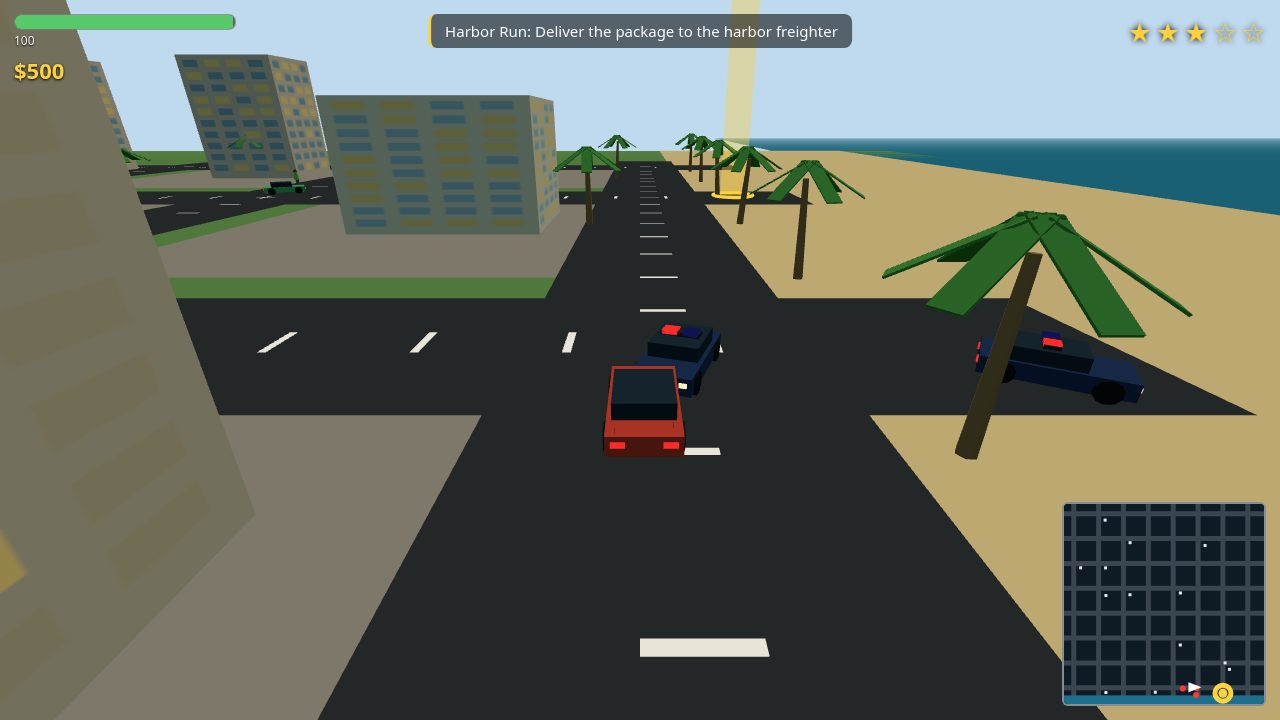
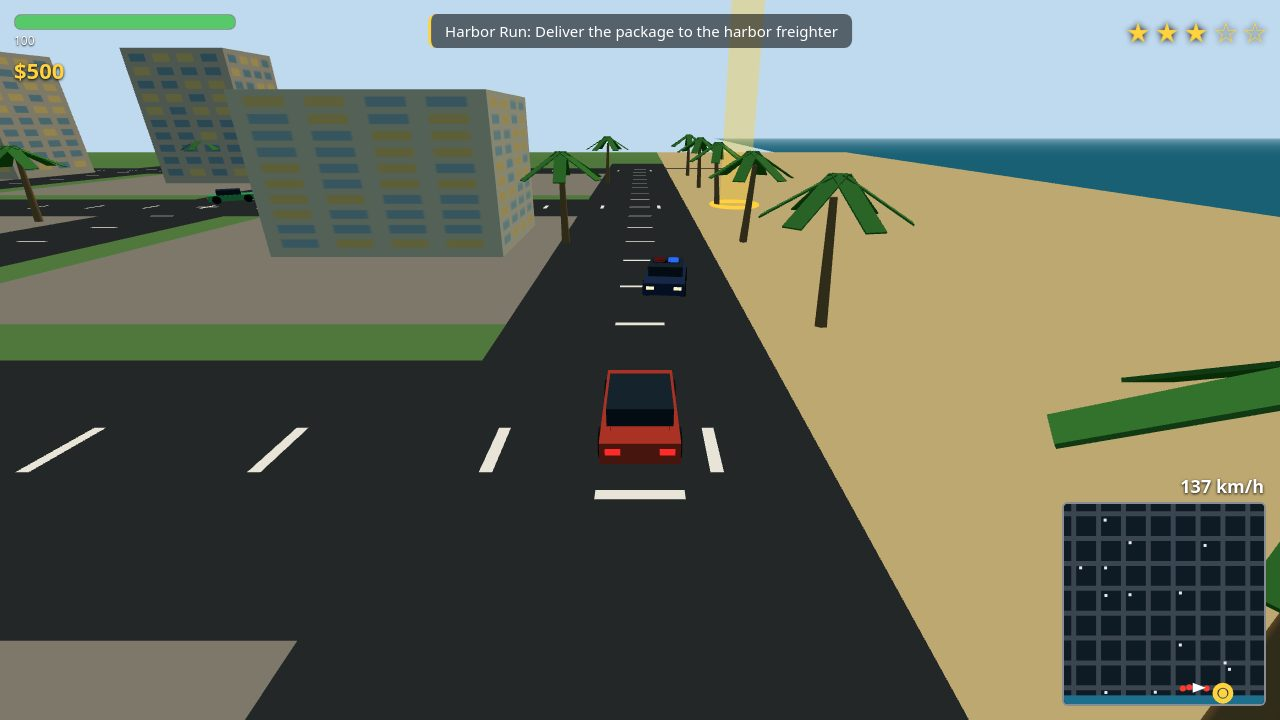
Fix round: README how-to-play + referral closing, restage chase cover
- README: expand Controls into a How to play section (real controls and
  the four mission goals) and add a closing line inviting players to the
  bounty page with the referral link. Badges unchanged.
- shots.js: restage the chase cover — police steer straight at the player,
  so the trailing cruiser now starts in the north lane behind the player
  and the head-on cruiser farther ahead; no cruiser leaves the road or
  clips the frame edge in the sand anymore.
- screenshots/1-chase.jpg retaken with the staged scene (seed 7).

diff --git a/game/src/shots.js b/game/src/shots.js
@@ -40,13 +40,19 @@ function placeOnBeachRoad(world, heading) {
   return car;
 }
 
-// Chasers in frame: one pulling alongside, one coming head-on down the avenue.
+// Chasers in frame: one trailing in the north lane, one coming head-on down
+// the avenue, one more behind. Police steer straight at the player wherever
+// they start, so the staging keeps every cruiser's pursuit line on the road
+// for the whole shot window: a cruiser placed ahead in the north lane turns
+// hard across the player's path, cuts onto the sand and fills the frame's
+// corner, and a head-on cruiser starting at +42 meets the player inside the
+// window — the circle push then shoves it off the avenue's south edge.
 function addChasers(world) {
   const car = world.player.car;
-  const side = makeVehicle(world.scene, car.x + 10, car.z - 5, car.heading, 'police', 0x1c2f57);
+  const side = makeVehicle(world.scene, car.x - 18, car.z - 4, car.heading, 'police', 0x1c2f57);
   side.speed = 38;
   world.cars.push(side);
-  const headOn = makeVehicle(world.scene, car.x + 42, car.z + 4, car.heading + Math.PI, 'police', 0x1c2f57);
+  const headOn = makeVehicle(world.scene, car.x + 64, car.z + 3, car.heading + Math.PI, 'police', 0x1c2f57);
   headOn.speed = 30;
   world.cars.push(headOn);
   const behind = makeVehicle(world.scene, car.x - 30, car.z + 3, car.heading, 'police', 0x1c2f57);

diff --git a/README.md b/README.md
@@ -21,10 +21,25 @@ wave, a harbor run — while the bay PD answers with cruisers and officers.
 - Start screen, pause, busted/respawn, and save/load via localStorage
 - Sound synthesized live with WebAudio — engine, sirens, gunfire, jingles
 
-## Controls
+## How to play
 
-WASD drive & walk · mouse drag: camera · click: shoot · E: enter/exit car ·
-F: punch · Space: jump / handbrake · Shift: run · P: pause · M: mute
+You are Rico Vega, working four jobs for Mara Solis. Follow the gold beacon
+and the minimap marker to each objective:
+
+1. **First Fare** — pick up the client at the marina district and drop them
+   at the Solmar Hotel.
+2. **The Pickup** — steal the mint coupe parked by the marina and deliver
+   it to the garage.
+3. **Heat Wave** — lose the heat until your wanted stars fade, then reach
+   the safehouse on the north side unseen.
+4. **Harbor Run** — deliver the package to the harbor freighter, with the
+   bay PD on your tail.
+
+Controls: **WASD / arrow keys** walk and drive · **E** enter or steal a
+car · **F** melee punch · **mouse click** fire the pistol · **P** pause ·
+**Shift** run · **Space** jump / handbrake · **mouse drag** camera ·
+**M** mute. Crimes raise your wanted stars — the more stars, the harder
+Solmar Bay PD comes after you.
 
 ## Run it
 
@@ -40,3 +55,9 @@ mkdir -p out && MAKEFUN_OUTPUT_DIR=out node main.ts
 
 Screenshots live in `screenshots/` (the first by name is the cover); they are
 real renders of the game, staged with `?shot=chase|street|drive|mission&seed=N`.
+
+---
+
+Come play Solmar Bay and follow the standings on the
+[gta6-01 bounty page](https://make.fun/bounty/gta6-01) — new players can
+join through our referral link: https://make.fun/r/pex4n748
